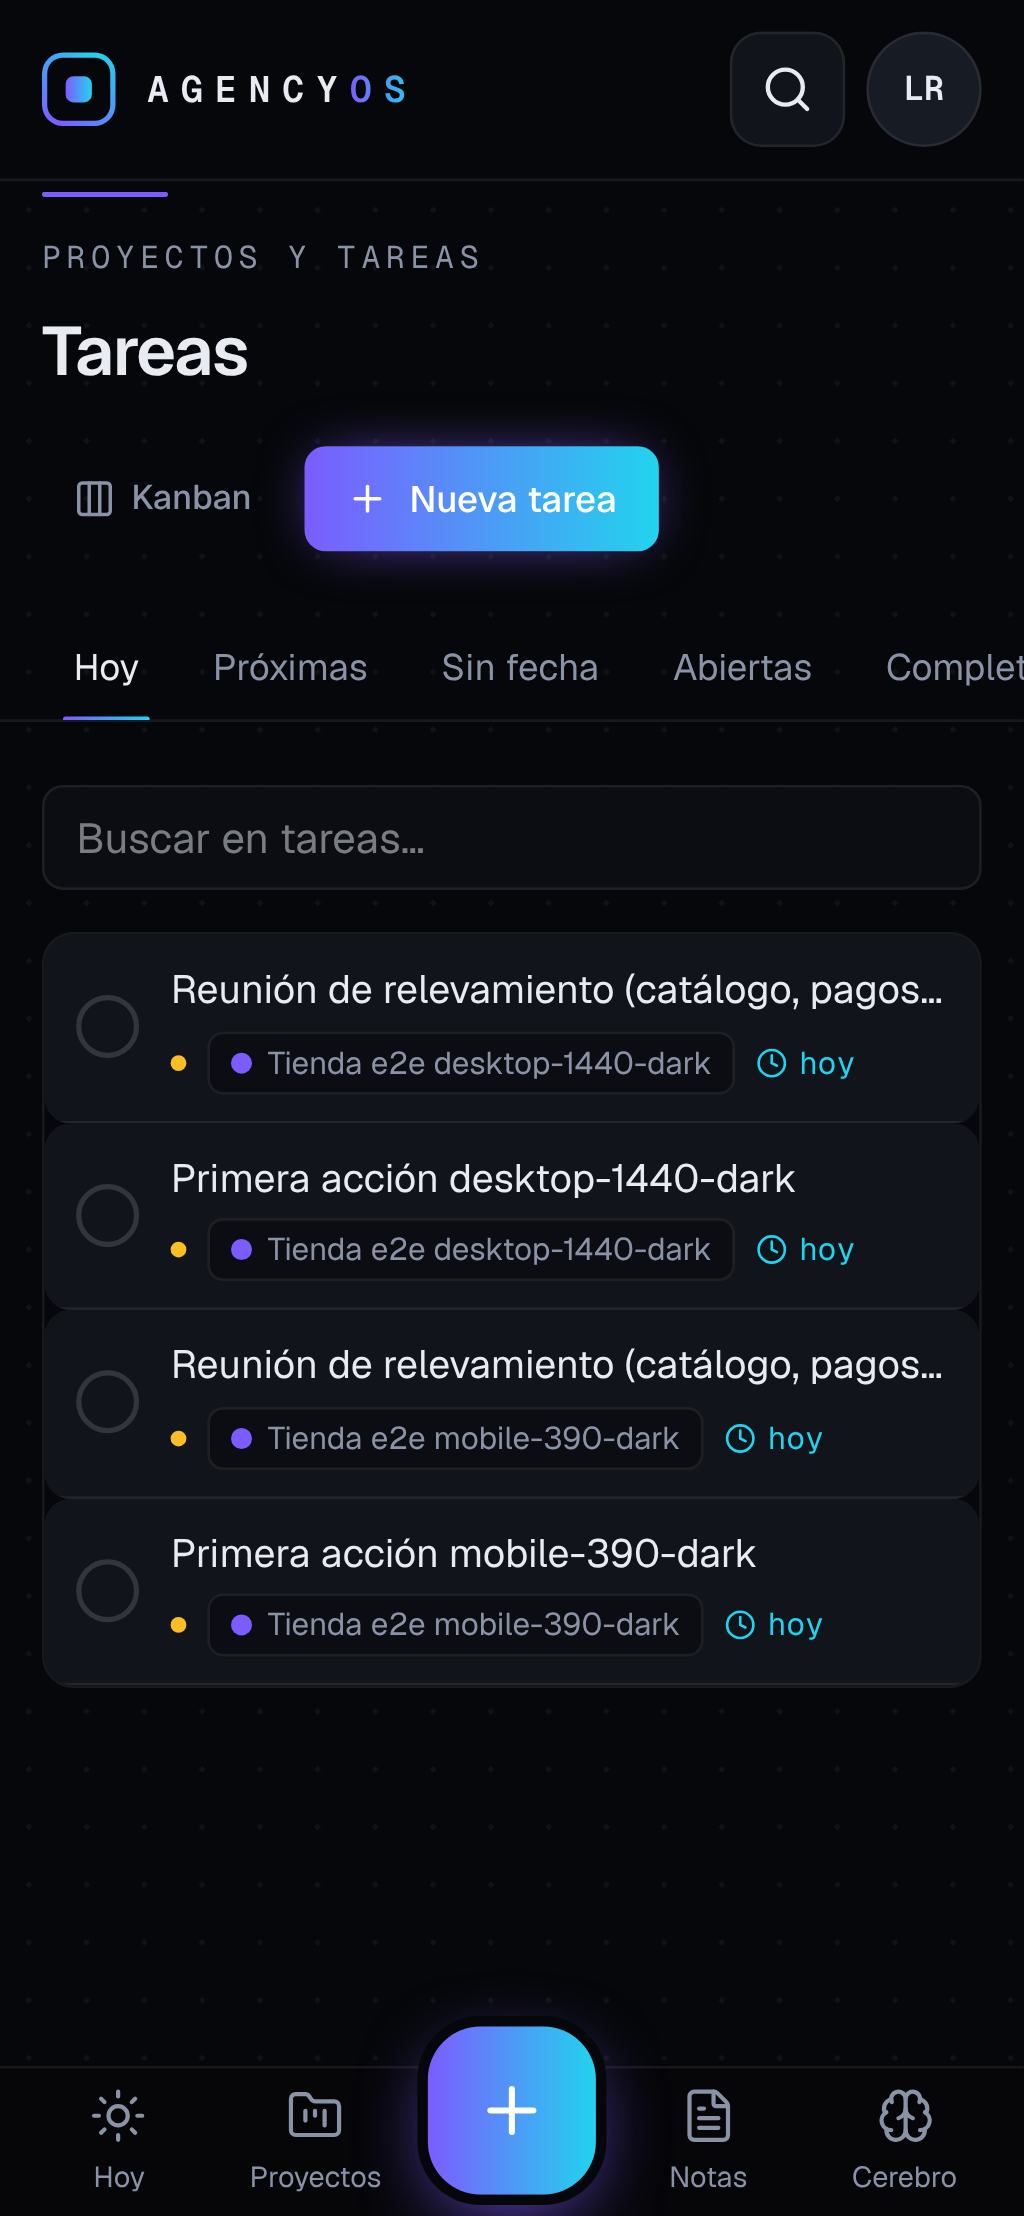
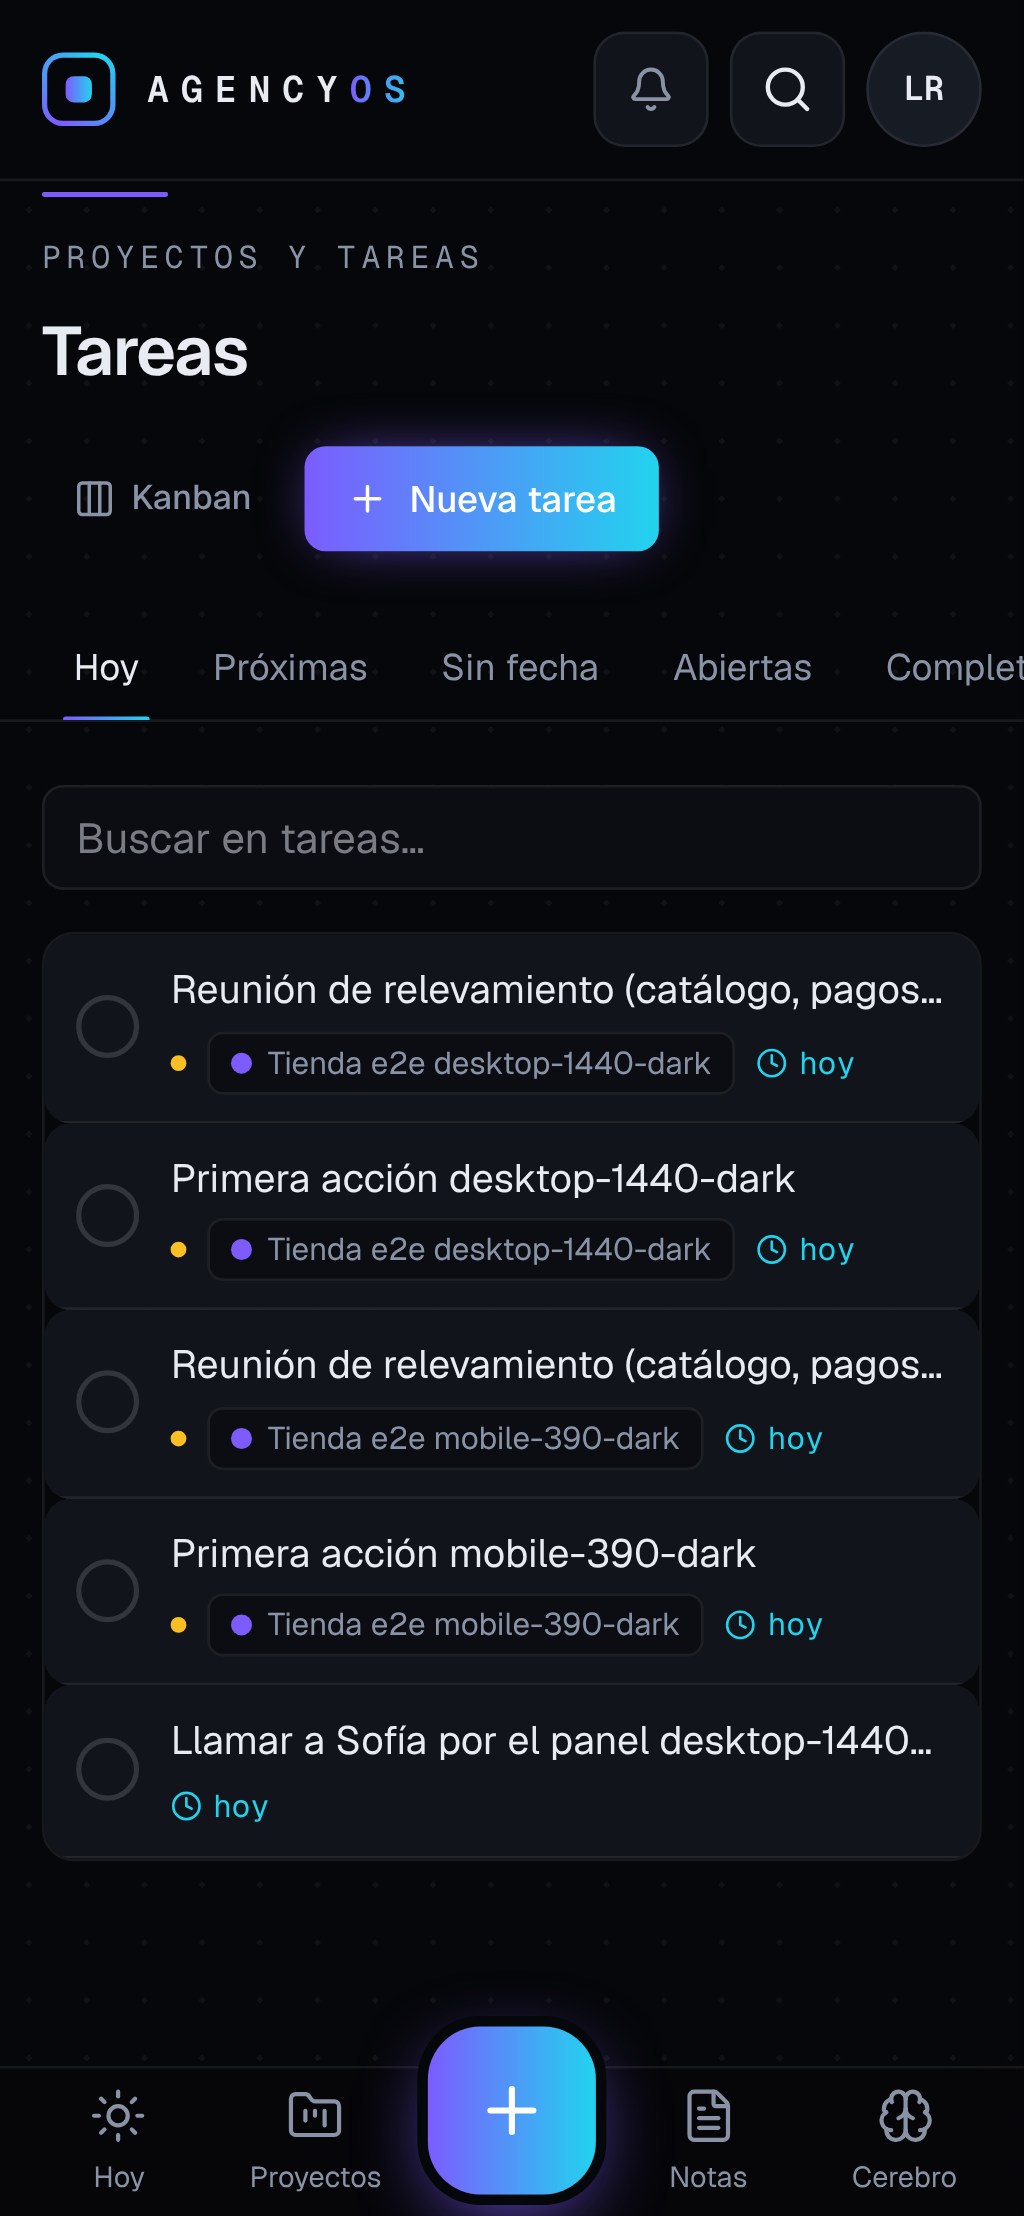
test(e2e): flujos del núcleo (Bandeja→Hoy, paleta sin tildes, papelera, MCP por HTTP, axe); contraste AA y procesador de Bandeja robusto
Claude-Session: https://claude.ai/code/session_01JJJm3SstkFZVVNASwd7T8o

diff --git a/tests/e2e/03-nucleo.spec.ts b/tests/e2e/03-nucleo.spec.ts
@@ -1,0 +1,121 @@
+import { expect, test } from "@playwright/test";
+import { expectAccessible, expectNoHorizontalScroll, login, shot } from "./helpers";
+
+test.describe.configure({ mode: "serial" });
+
+test("Bandeja → procesar → tarea con fecha → aparece en Hoy → completarla @visual", async ({ page }, info) => {
+  const text = `Llamar a Sofía por el panel ${info.project.name}`;
+  await login(page);
+  await page.keyboard.press("c").catch(() => undefined);
+  if (!(await page.getByRole("dialog", { name: "Capturar" }).isVisible().catch(() => false))) {
+    await page.getByRole("button", { name: "Capturar" }).first().click();
+  }
+  await page.getByPlaceholder("Una tarea, una idea, un gasto, un link…").fill(text);
+  await page.keyboard.press("Enter");
+  await expect(page.getByText("Guardado en la Bandeja")).toBeVisible();
+  await page.goto("/bandeja");
+  await expect(page.getByText(text)).toBeVisible();
+  await page.getByRole("link", { name: /Procesar/ }).click();
+  // procesar hasta encontrar el nuestro
+  for (let i = 0; i < 10; i++) {
+    if (await page.getByText(text, { exact: true }).isVisible()) break;
+    await page.getByRole("button", { name: "Saltear →" }).click();
+  }
+  await page.getByRole("button", { name: "Tarea", exact: true }).click();
+  await page.getByRole("button", { name: "Crear tarea" }).click();
+  await expect(page.getByText("Convertido en tarea")).toBeVisible();
+  await page.goto("/hoy");
+  await expect(page.getByRole("heading", { name: /Buen(os|as)? (día|tardes|noches), Luciano/ })).toBeVisible();
+  await expectNoHorizontalScroll(page);
+  await shot(page, "hoy", info.project.name);
+  await expectAccessible(page);
+  await page.goto("/tareas?ver=hoy");
+  const row = page.getByRole("listitem").filter({ hasText: text });
+  await row.getByRole("checkbox").click();
+  await expect(page.getByText("Tarea completada")).toBeVisible();
+});
+
+test("paleta Ctrl+K: buscar con y sin tildes, crear desde la paleta", async ({ page }, info) => {
+  await login(page);
+  await page.goto("/hoy");
+  const title = `Revisión del catálogo ${info.project.name}`;
+  await page.keyboard.press("Control+k");
+  const input = page.getByPlaceholder(/Buscar clientes, proyectos/);
+  await input.fill(title);
+  await page.getByRole("option", { name: new RegExp(`Crear tarea para hoy: «${title}»`) }).click();
+  await expect(page.getByText("Tarea creada para hoy")).toBeVisible();
+  await page.keyboard.press("Control+k");
+  // con tildes
+  await input.fill("Revisión del catálogo");
+  await expect(page.getByRole("option", { name: new RegExp(`${title}.*tarea$`) })).toBeVisible();
+  // sin tildes y en minúsculas
+  await input.fill("revision del catalogo");
+  await expect(page.getByRole("option", { name: new RegExp(`${title}.*tarea$`) })).toBeVisible();
+  // con un error leve de tipeo
+  await input.fill("revisoin del catalogo");
+  await expect(page.getByRole("option", { name: new RegExp(`${title}.*tarea$`) })).toBeVisible();
+  await page.getByRole("option", { name: new RegExp(`${title}.*tarea$`) }).click();
+  await expect(page).toHaveURL(/\/tareas\/[0-9a-f-]{36}$/);
+});
+
+test("papelera: eliminar → deshacer; eliminar → restaurar", async ({ page }, info) => {
+  await login(page);
+  await page.goto("/tareas?ver=hoy");
+  await page.getByRole("link", { name: new RegExp(`Revisión del catálogo ${info.project.name}`) }).click();
+  await page.getByRole("button", { name: "Más acciones" }).click();
+  page.once("dialog", (d) => d.accept());
+  await page.getByRole("menuitem", { name: "Eliminar" }).click();
+  await page.getByRole("button", { name: "Deshacer" }).click();
+  await expect(page.getByText("Deshecho")).toBeVisible();
+  await page.goto("/tareas?ver=hoy");
+  await expect(page.getByText(`Revisión del catálogo ${info.project.name}`)).toBeVisible();
+  await page.getByRole("link", { name: new RegExp(`Revisión del catálogo ${info.project.name}`) }).click();
+  await page.getByRole("button", { name: "Más acciones" }).click();
+  page.once("dialog", (d) => d.accept());
+  await page.getByRole("menuitem", { name: "Eliminar" }).click();
+  await page.waitForURL("**/tareas");
+  await page.goto("/papelera");
+  const item = page.locator("div").filter({ hasText: `Revisión del catálogo ${info.project.name}` }).filter({ has: page.getByRole("button", { name: "Restaurar" }) }).last();
+  await item.getByRole("button", { name: "Restaurar" }).click();
+  await expect(page.getByText("Restaurado")).toBeVisible();
+  await page.goto("/tareas?ver=hoy");
+  await expect(page.getByText(`Revisión del catálogo ${info.project.name}`)).toBeVisible();
+});
+
+test("MCP: token de alcance limitado → crear_tarea funciona y eliminar es rechazado", async ({ page, request }, info) => {
+  await login(page);
+  await page.goto("/configuracion/integraciones");
+  await page.getByLabel("Nombre").fill(`Claude e2e ${info.project.name}`);
+  await page.getByLabel("Confirmá tu contraseña").fill("ContraseñaSegura2026!");
+  await page.getByRole("button", { name: "Crear token" }).click();
+  const token = (await page.locator("code").filter({ hasText: /^ag_/ }).first().textContent())?.trim() ?? "";
+  expect(token.startsWith("ag_")).toBe(true);
+  await expectNoHorizontalScroll(page);
+  const call = (name: string, args: Record<string, unknown>) =>
+    request.post("/mcp", {
+      headers: { authorization: `Bearer ${token}`, "content-type": "application/json", accept: "application/json, text/event-stream" },
+      data: { jsonrpc: "2.0", id: 1, method: "tools/call", params: { name, arguments: args } },
+    });
+  const init = await request.post("/mcp", { headers: { authorization: `Bearer ${token}`, "content-type": "application/json", accept: "application/json, text/event-stream" }, data: { jsonrpc: "2.0", id: 0, method: "initialize", params: { protocolVersion: "2025-06-18", capabilities: {}, clientInfo: { name: "e2e", version: "1" } } } });
+  expect(init.ok()).toBe(true);
+  const ok = await call("crear_tarea", { titulo: `Tarea MCP ${info.project.name}` });
+  const okBody = await ok.json();
+  expect(okBody.result.isError ?? false).toBe(false);
+  const no = await call("eliminar_elemento", { tipo: "project", id: "00000000-0000-7000-8000-000000000000" });
+  expect((await no.json()).result.isError).toBe(true);
+  const unauth = await request.post("/mcp", { headers: { authorization: "Bearer ag_falso", "content-type": "application/json" }, data: {} });
+  expect(unauth.status()).toBe(401);
+  await page.goto("/configuracion/actividad?ver=auditoria");
+  await expect(page.getByText("Claude: acción rechazada").first()).toBeVisible();
+});
+
+test("pantallas del núcleo sin scroll horizontal y accesibles @visual", async ({ page }, info) => {
+  await login(page);
+  for (const path of ["/hoy", "/negocio", "/bandeja", "/proyectos", "/tareas", "/espacios", "/papelera", "/aprobaciones", "/notificaciones", "/foco", "/configuracion", "/configuracion/seguridad", "/configuracion/integraciones", "/configuracion/estado"]) {
+    await page.goto(path);
+    await expect(page.locator("main")).toBeVisible();
+    await expectNoHorizontalScroll(page);
+    if (["/hoy", "/negocio", "/proyectos", "/configuracion"].includes(path)) await shot(page, path.slice(1).replace(/\//g, "-") || "raiz", info.project.name);
+  }
+  await expectAccessible(page);
+});

diff --git a/apps/web/app/(app)/bandeja/processor.tsx b/apps/web/app/(app)/bandeja/processor.tsx
@@ -5,7 +5,6 @@ import { Badge, Button, Card, Select } from "@agencyos/ui";
 import { CalendarPlus, FileText, FolderPlus, Trash2, Wallet, X } from "lucide-react";
 import { useRouter } from "next/navigation";
 import { useState } from "react";
-import { ActionForm, SubmitButton } from "@/components/action-form";
 import { SelectField, TextField } from "@/components/fields";
 import { useAction } from "@/components/use-action";
 import { deleteItemAction, discardAction, restoreItemAction, setSpaceAction, toNoteAction, toProjectAction, toTaskAction, undoProcessAction } from "./actions";
@@ -15,24 +14,34 @@ type Opt = { value: string; label: string };
 
 /** Procesar la Bandeja uno por uno (docs/02 N4). */
 export function Processor({ items, spaces, projects, financeEnabled }: { items: Item[]; spaces: Opt[]; projects: Opt[]; financeEnabled: boolean }) {
-  const [idx, setIdx] = useState(0);
+  // Los ítems procesados desaparecen al revalidar: siempre se muestra el primer pendiente no salteado.
+  const [skipped, setSkipped] = useState<Set<string>>(new Set());
   const [mode, setMode] = useState<"choose" | "task">("choose");
   const { exec, pending } = useAction();
   const router = useRouter();
-  const item = items[idx];
-  const next = () => {
-    setMode("choose");
-    if (idx + 1 >= items.length) router.push("/bandeja");
-    else setIdx(idx + 1);
-  };
-  if (!item) return null;
+  const queue = items.filter((i) => !skipped.has(i.id));
+  const item = queue[0];
+  const next = () => setMode("choose");
+  if (!item) {
+    return (
+      <Card className="flex flex-col items-center gap-3 p-8 text-center">
+        <p className="text-[18px] font-medium">{items.length ? "Salteaste los que quedan" : "¡Bandeja procesada!"}</p>
+        <p className="text-[14px] text-text-muted">{items.length ? `Quedan ${items.length} para otro momento.` : "Todo quedó convertido, programado o descartado."}</p>
+        <div className="flex gap-2">
+          {items.length ? <Button onClick={() => setSkipped(new Set())}>Volver a empezar</Button> : null}
+          <Button variant="primary" onClick={() => router.push("/hoy")}>Ir a Hoy</Button>
+        </div>
+      </Card>
+    );
+  }
   return (
     <div className="flex flex-col gap-4">
       <div className="flex items-center justify-between font-mono text-[12px] text-text-muted">
-        <span>{idx + 1} de {items.length}</span>
+        <span>{queue.length} {queue.length === 1 ? "pendiente" : "pendientes"}</span>
+        <button type="button" onClick={() => { setSkipped((s) => new Set(s).add(item.id)); setMode("choose"); }} className="hover:text-text">Saltear →</button>
         <button type="button" onClick={() => router.push("/bandeja")} className="flex items-center gap-1 hover:text-text"><X className="size-4" /> Salir</button>
       </div>
-      <Card className="p-5 md:p-6">
+      <Card className="p-5 md:p-6" key={item.id}>
         {item.suggestedType ? <Badge tone="info" className="mb-3">{L.inboxType[item.suggestedType as keyof typeof L.inboxType] ?? item.suggestedType}</Badge> : null}
         <p className="whitespace-pre-wrap break-words text-[18px] leading-relaxed text-text">{item.text}</p>
         <div className="mt-4 max-w-xs">
@@ -44,7 +53,14 @@ export function Processor({ items, spaces, projects, financeEnabled }: { items: 
       </Card>
       {mode === "task" ? (
         <Card className="p-5">
-          <ActionForm action={toTaskAction.bind(null, item.id)} successMessage="Convertido en tarea" onSuccess={next}>
+          <form
+            className="flex flex-col gap-4"
+            onSubmit={(e) => {
+              e.preventDefault();
+              const fd = new FormData(e.currentTarget);
+              exec(() => toTaskAction(item.id, null, fd), { success: "Convertido en tarea", onDone: next });
+            }}
+          >
             <TextField label="Título" name="title" defaultValue={item.text.split("\n")[0]?.slice(0, 300)} required />
             <div className="grid gap-4 md:grid-cols-3">
               <TextField label="Fecha" name="dueDate" type="date" defaultValue={todayAR()} />
@@ -54,9 +70,9 @@ export function Processor({ items, spaces, projects, financeEnabled }: { items: 
             <input type="hidden" name="descriptionMd" value={item.text} />
             <div className="flex justify-between">
               <Button type="button" variant="ghost" onClick={() => setMode("choose")}>Volver</Button>
-              <SubmitButton>Crear tarea</SubmitButton>
+              <Button type="submit" variant="primary" loading={pending}>Crear tarea</Button>
             </div>
-          </ActionForm>
+          </form>
         </Card>
       ) : (
         <div className="grid grid-cols-2 gap-2 md:grid-cols-3">

diff --git a/apps/web/components/use-action.ts b/apps/web/components/use-action.ts
@@ -22,7 +22,23 @@ export function useAction() {
       opts.onDone?.(r.data);
       if (opts.success) {
         const undo = opts.undo;
-        toast.success(opts.success, undo ? { duration: 8000, action: { label: "Deshacer", onClick: () => void undo().then(() => router.refresh()) } } : undefined);
+        toast.success(
+          opts.success,
+          undo
+            ? {
+                duration: 8000,
+                action: {
+                  label: "Deshacer",
+                  onClick: () =>
+                    void undo().then((u) => {
+                      if (u.ok) toast.success("Deshecho");
+                      else toast.error(u.error.message);
+                      router.refresh();
+                    }),
+                },
+              }
+            : undefined,
+        );
       }
       if (opts.redirectTo) router.push(opts.redirectTo);
     });

diff --git a/tests/e2e/helpers.ts b/tests/e2e/helpers.ts
@@ -53,3 +53,11 @@ export async function shot(page: Page, name: string, project: string) {
   mkdirSync(dir, { recursive: true });
   await page.screenshot({ path: `${dir}/${name}.png`, fullPage: true });
 }
+
+/** axe: sin violaciones serias o críticas (docs/09). */
+export async function expectAccessible(page: Page) {
+  const { default: AxeBuilder } = await import("@axe-core/playwright");
+  const r = await new AxeBuilder({ page }).withTags(["wcag2a", "wcag2aa", "wcag21aa"]).analyze();
+  const bad = r.violations.filter((v) => v.impact === "serious" || v.impact === "critical");
+  expect(bad.map((v) => `${v.id}: ${v.nodes.map((n) => n.target.join(" ")).slice(0, 3).join(" | ")}`)).toEqual([]);
+}

diff --git a/packages/ui/src/tokens.css b/packages/ui/src/tokens.css
@@ -11,9 +11,10 @@
   --border-strong: rgba(255, 255, 255, 0.14);
   --text: #e8ebf2;
   --text-muted: #8a93a6;
-  --text-faint: #5d6576;
+  --text-faint: #7a8396;
   --accent: #7c5cff;
   --accent-2: #22d3ee;
+  --accent-text: #9b85ff;
   --accent-soft: rgba(124, 92, 255, 0.14);
   --success: #34d399;
   --warning: #fbbf24;
@@ -37,9 +38,10 @@
   --border-strong: rgba(10, 12, 18, 0.18);
   --text: #0b0d12;
   --text-muted: #5a6275;
-  --text-faint: #8a93a6;
+  --text-faint: #6b7385;
   --accent: #5b3df5;
   --accent-2: #0891b2;
+  --accent-text: #5b3df5;
   --accent-soft: rgba(91, 61, 245, 0.1);
   --success: #059669;
   --warning: #b45309;

diff --git a/apps/web/app/(app)/hoy/page.tsx b/apps/web/app/(app)/hoy/page.tsx
@@ -62,9 +62,9 @@ export default async function HoyPage() {
           <CustomizeToday layout={layout} />
         </div>
       </header>
-      <div className="grid gap-4 md:gap-5 lg:grid-cols-2 2xl:grid-cols-3">
+      <div className="grid gap-4 md:gap-5 lg:grid-cols-2 xl:grid-cols-3">
         {visible.map((b) => (
-          <section key={b} className={b === "proyectos" ? "lg:col-span-2 2xl:col-span-3" : ""} aria-label={b}>
+          <section key={b} className={`[&>*]:h-full ${b === "proyectos" ? "lg:col-span-2 xl:col-span-3" : ""}`} aria-label={b}>
             {blocks[b]}
           </section>
         ))}

diff --git a/apps/web/app/(app)/bandeja/page.tsx b/apps/web/app/(app)/bandeja/page.tsx
@@ -13,7 +13,7 @@ export default async function InboxPage({ searchParams }: { searchParams: Promis
   const sp = await searchParams;
   const ctx = await requireCtx();
   const [items, spaces, projects] = await Promise.all([listPending(ctx), spaceOpts(ctx), projectOpts(ctx)]);
-  const processing = sp.procesar === "1" && items.length > 0;
+  const processing = sp.procesar === "1";
   return (
     <div className="mx-auto max-w-3xl">
       <PageHeader

diff --git a/apps/web/app/globals.css b/apps/web/app/globals.css
@@ -81,3 +81,6 @@ body {
 }
 .prose-ag li:has(> input[type="checkbox"]) { list-style: none; margin-left: -1.3em; }
 .prose-ag input[type="checkbox"] { margin-right: 0.5em; accent-color: var(--accent); }
+
+/* Texto en color de acento: variante con contraste AA sobre superficies oscuras (sin cambiar el acento de fondos y gradientes). */
+.text-accent { color: var(--accent-text); }
